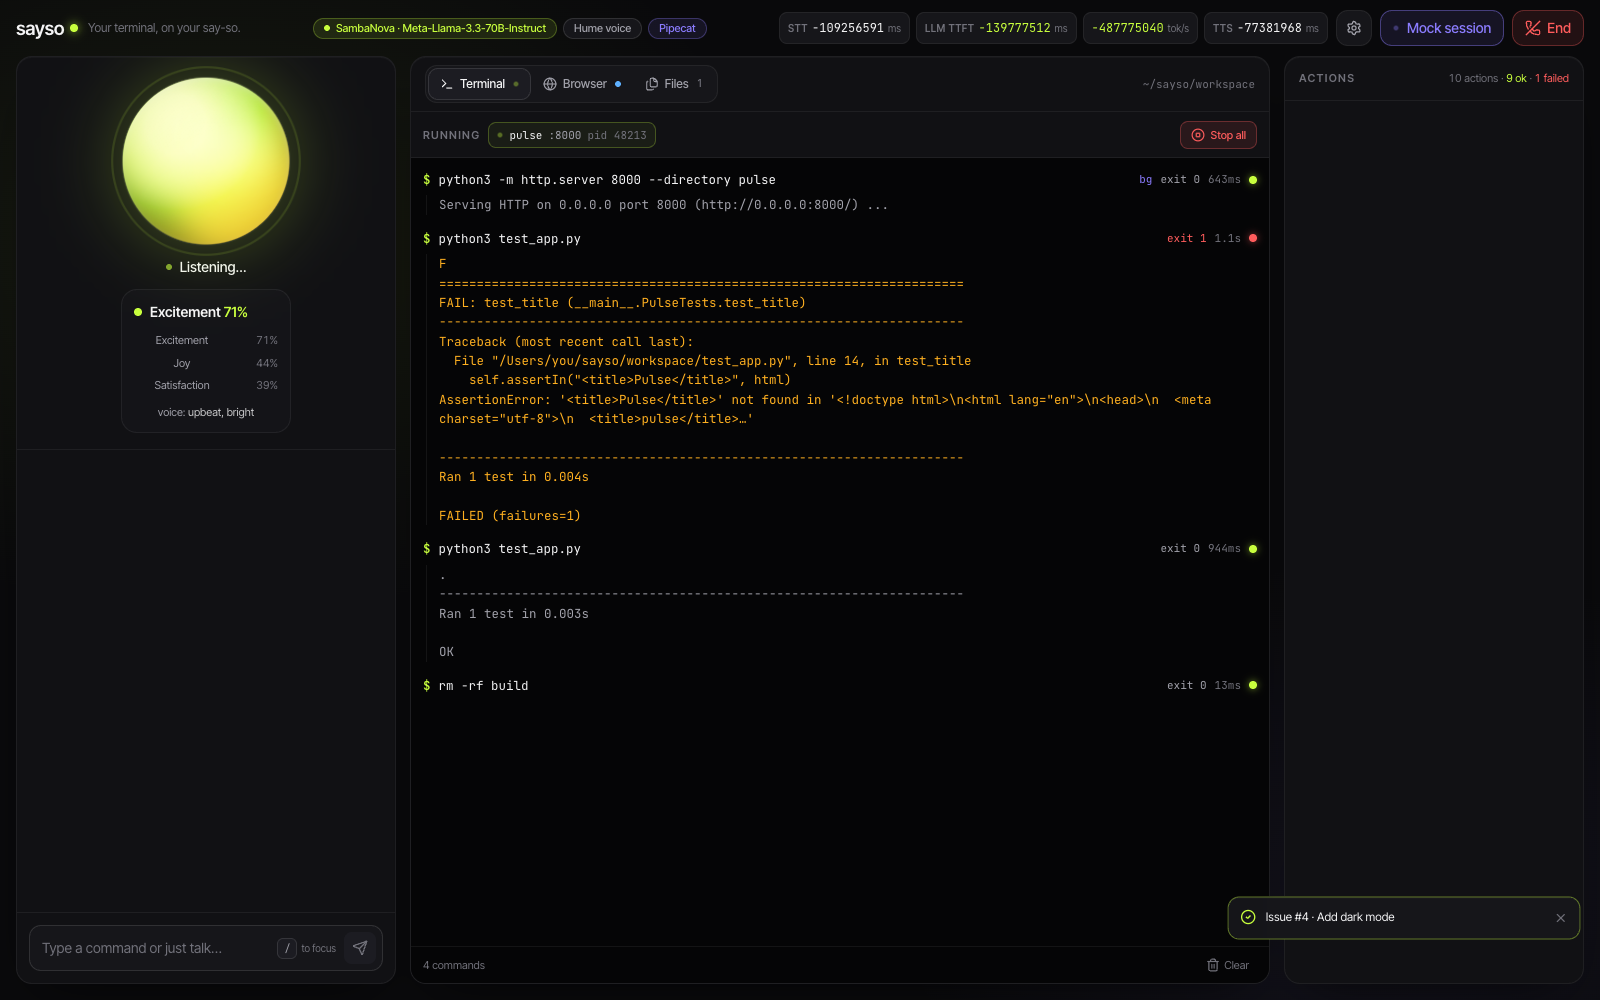
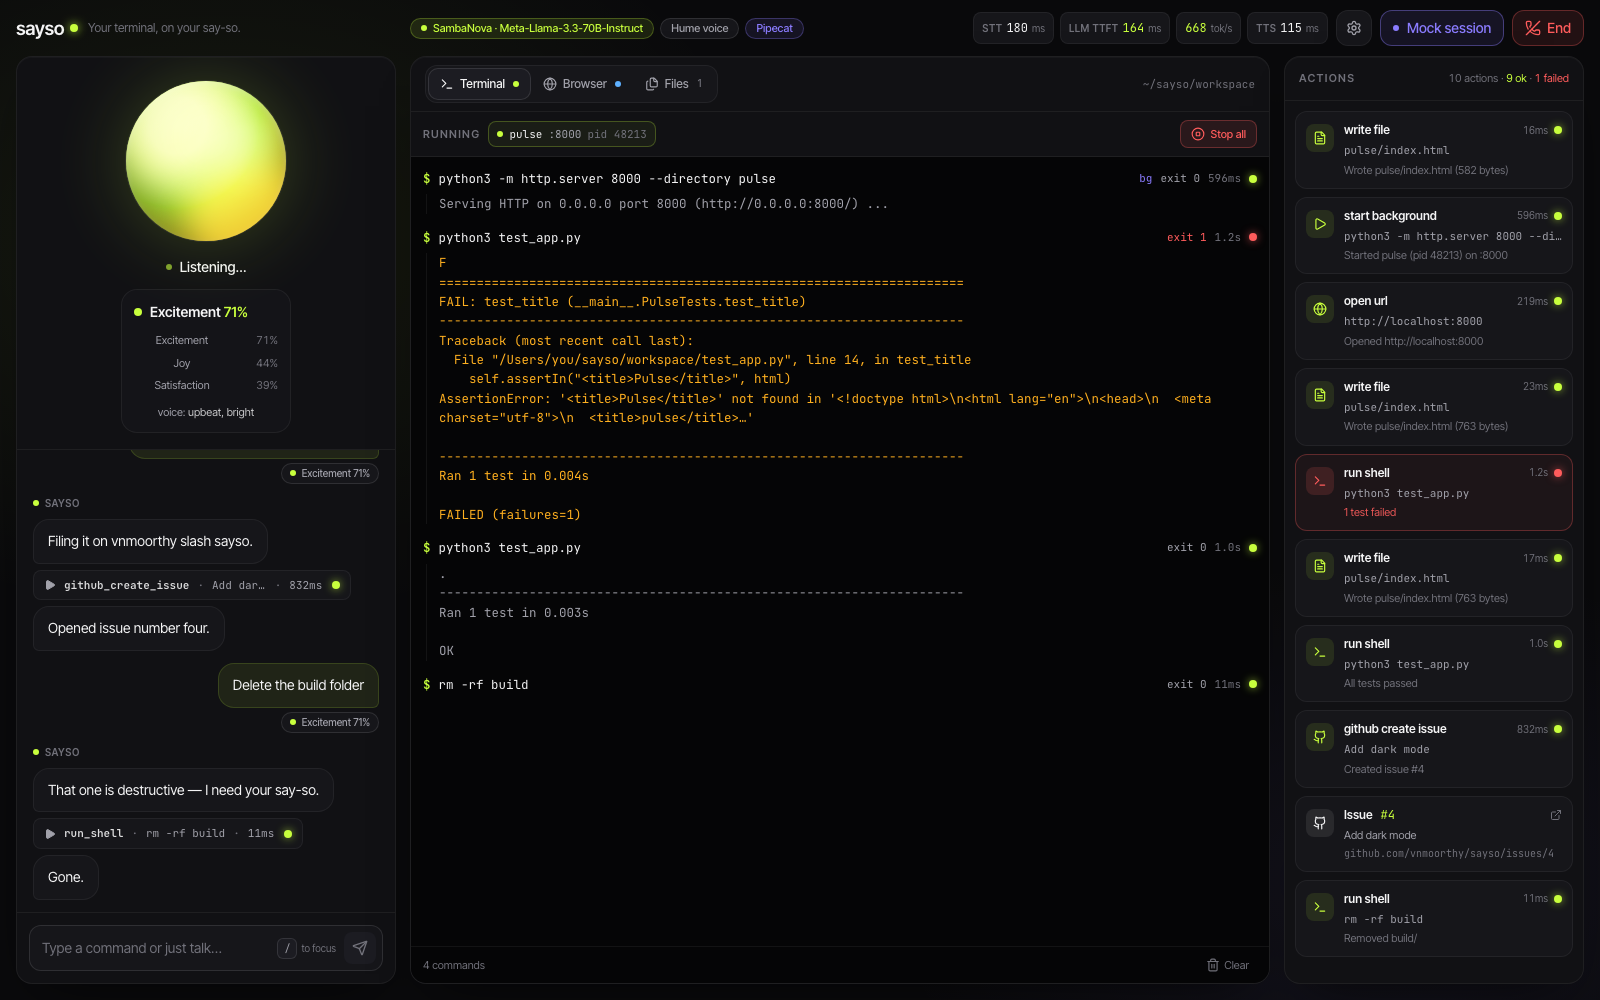
fix: stop the post-tool double run from re-issuing requests; synchronous tools; real app screenshots
- demo brain: never emit text alongside tool calls, summarise across Pipecat's per-call
  assistant messages, and stay silent when a batch was already answered
- tools: standard (synchronous) function registration
- web: clamp HUD number animation; add README screenshots

diff --git a/web/src/components/LatencyHud.tsx b/web/src/components/LatencyHud.tsx
@@ -22,7 +22,7 @@ function useTween(target: number | undefined, ms = 450): number | undefined {
     const start = performance.now();
     let raf = 0;
     const step = (now: number) => {
-      const t = Math.min(1, (now - start) / ms);
+      const t = Math.min(1, Math.max(0, (now - start) / ms));
       const eased = 1 - Math.pow(1 - t, 3);
       setValue(from + (target - from) * eased);
       if (t < 1) raf = requestAnimationFrame(step);

diff --git a/server/sayso/demo_llm_server.py b/server/sayso/demo_llm_server.py
@@ -100,8 +100,9 @@ def _content_text(content: Any) -> str:
 
 def _tone(messages: list[dict]) -> str:
     for msg in reversed(messages[-6:]):
-        if msg.get("role") == "system" and "[User tone:" in _content_text(msg.get("content")):
-            m = re.search(r"\[User tone: (\w+)", _content_text(msg["content"]))
+        text = _content_text(msg.get("content")).lstrip()
+        if msg.get("role") in ("system", "developer") and text.startswith("[User tone:"):
+            m = re.match(r"\[User tone: (\w+)", text)
             if m:
                 return m.group(1)
     return "neutral"
@@ -138,6 +139,18 @@ def decide(messages: list[dict]) -> tuple[str | None, list[tuple[str, dict]]]:
 
     if last.get("role") == "tool":
         return _summarize(messages, tone), []
+
+    # Pipecat can re-run the model once more after a tool batch has already been
+    # summarised (the pre-tool text commits after the results). If the tail of the
+    # context is "tool result(s) then our own text", we already answered: stay quiet.
+    if last.get("role") == "assistant" and not last.get("tool_calls"):
+        for prev in reversed(messages[:-1]):
+            if prev.get("role") == "tool":
+                return "", []
+            if prev.get("role") == "user":
+                break
+            if prev.get("role") == "assistant" and not prev.get("tool_calls"):
+                break
 
     user = ""
     for msg in reversed(messages):
@@ -185,7 +198,7 @@ def decide(messages: list[dict]) -> tuple[str | None, list[tuple[str, dict]]]:
                     {"command": f"python3 -m http.server {port} --directory {project}", "name": project, "port": port},
                 )
             )
-        return f"{_prefix(tone)}On it. Scaffolding {project} now.", calls
+        return None, calls
 
     if re.search(r"\b(run|start|serve|launch)\b.*\b(it|server|app|site|again)\b", u) and not re.search(r"test", u):
         port = _port_from(u) if re.search(r"\bport\b", u) else port
@@ -206,7 +219,7 @@ def decide(messages: list[dict]) -> tuple[str | None, list[tuple[str, dict]]]:
     if re.search(r"\bfix\b|\bmake (it|them|the tests?) pass\b|\brepair\b", u):
         STATE["fixed"] = True
         huge = "huge" in u or "big" in u or "neon" in u or STATE.get("huge")
-        return f"{_prefix(tone)}Fixing the title and re-running the tests.", [
+        return None, [
             ("write_file", {"path": f"{project}/index.html", "content": clock_html(project, huge=bool(huge), fixed=True)}),
             ("run_shell", {"command": f"cd {project} && python3 test_app.py"}),
         ]
@@ -223,7 +236,7 @@ def decide(messages: list[dict]) -> tuple[str | None, list[tuple[str, dict]]]:
 
     if re.search(r"\b(bigger|huge|larger|giant|neon|green|glow|color|colour|dark|font|style|pretty|nicer)\b", u):
         STATE["huge"] = True
-        return f"{_prefix(tone)}Making it huge and neon.", [
+        return None, [
             ("write_file", {"path": f"{project}/index.html", "content": clock_html(project, huge=True, fixed=STATE["fixed"])})
         ]
 
@@ -258,27 +271,56 @@ def decide(messages: list[dict]) -> tuple[str | None, list[tuple[str, dict]]]:
     )
 
 
+def _infer_name(payload: dict) -> str:
+    """Best-effort tool name from a result payload (used if tool_call ids don't line up)."""
+    if payload.get("awaiting_confirmation"):
+        return "run_shell"
+    if "pid" in payload or ("port" in payload and "name" in payload):
+        return "start_background"
+    if "exit_code" in payload:
+        return "run_shell"
+    if "bytes" in payload and "path" in payload:
+        return "write_file"
+    if "content" in payload and "path" in payload:
+        return "read_file"
+    if "entries" in payload:
+        return "list_files"
+    if "number" in payload and "url" in payload:
+        return "github_create_issue"
+    if "stargazerCount" in payload:
+        return "github_repo_info"
+    if "url" in payload and "text" in payload:
+        return "fetch_url"
+    if "url" in payload:
+        return "open_url"
+    if "stopped" in payload or payload.get("summary", "").startswith("stopped"):
+        return "stop_background"
+    return ""
+
+
 def _summarize(messages: list[dict], tone: str) -> str:
     """Turn the most recent batch of tool results into one spoken sentence."""
     results: list[tuple[str, dict]] = []
     names: dict[str, str] = {}
     for msg in reversed(messages):
-        if msg.get("role") == "tool":
+        role = msg.get("role")
+        if role == "tool":
             try:
                 payload = json.loads(_content_text(msg.get("content")) or "{}")
             except json.JSONDecodeError:
                 payload = {"raw": _content_text(msg.get("content"))}
             results.append((msg.get("tool_call_id", ""), payload))
-        elif msg.get("role") == "assistant" and msg.get("tool_calls"):
+        elif role == "assistant" and msg.get("tool_calls"):
             for call in msg["tool_calls"]:
                 names[call.get("id", "")] = call.get("function", {}).get("name", "")
+        elif role == "user":
             break
-        elif msg.get("role") == "assistant":
-            break
+        elif role == "assistant" and results:
+            break  # a plain assistant reply marks the previous batch
     results.reverse()
     parts: list[str] = []
     for call_id, payload in results:
-        name = names.get(call_id, "")
+        name = names.get(call_id) or _infer_name(payload)
         if payload.get("awaiting_confirmation"):
             STATE["pending"] = payload.get("confirmation_id")
             return (
@@ -418,6 +460,15 @@ async def chat(request: Request):
     model = body.get("model", "sayso-demo-brain")
     cid = f"chatcmpl-{uuid.uuid4().hex[:12]}"
     prompt_tokens = sum(len(_content_text(m.get("content"))) // 4 for m in messages)
+    logger.debug(
+        "demo brain ctx: "
+        + " | ".join(
+            f"{m.get('role')}"
+            + (f"[{','.join(tc.get('id', '?')[-4:] for tc in m['tool_calls'])}]" if m.get("tool_calls") else "")
+            + (f"({m.get('tool_call_id', '')[-4:]})" if m.get("role") == "tool" else "")
+            for m in messages[-8:]
+        )
+    )
     try:
         text, calls = decide(messages)
     except Exception as exc:  # noqa: BLE001

diff --git a/server/sayso/tools.py b/server/sayso/tools.py
@@ -678,7 +678,7 @@ class Toolbox:
 
     def register(self, llm: Any) -> None:
         for name, fn in self.handlers().items():
-            llm.register_function(name, self._wrap(name, fn), cancel_on_interruption=False)
+            llm.register_function(name, self._wrap(name, fn))
 
     def _wrap(self, name: str, fn: Callable[..., Awaitable[dict]]):
         sig = inspect.signature(fn)
